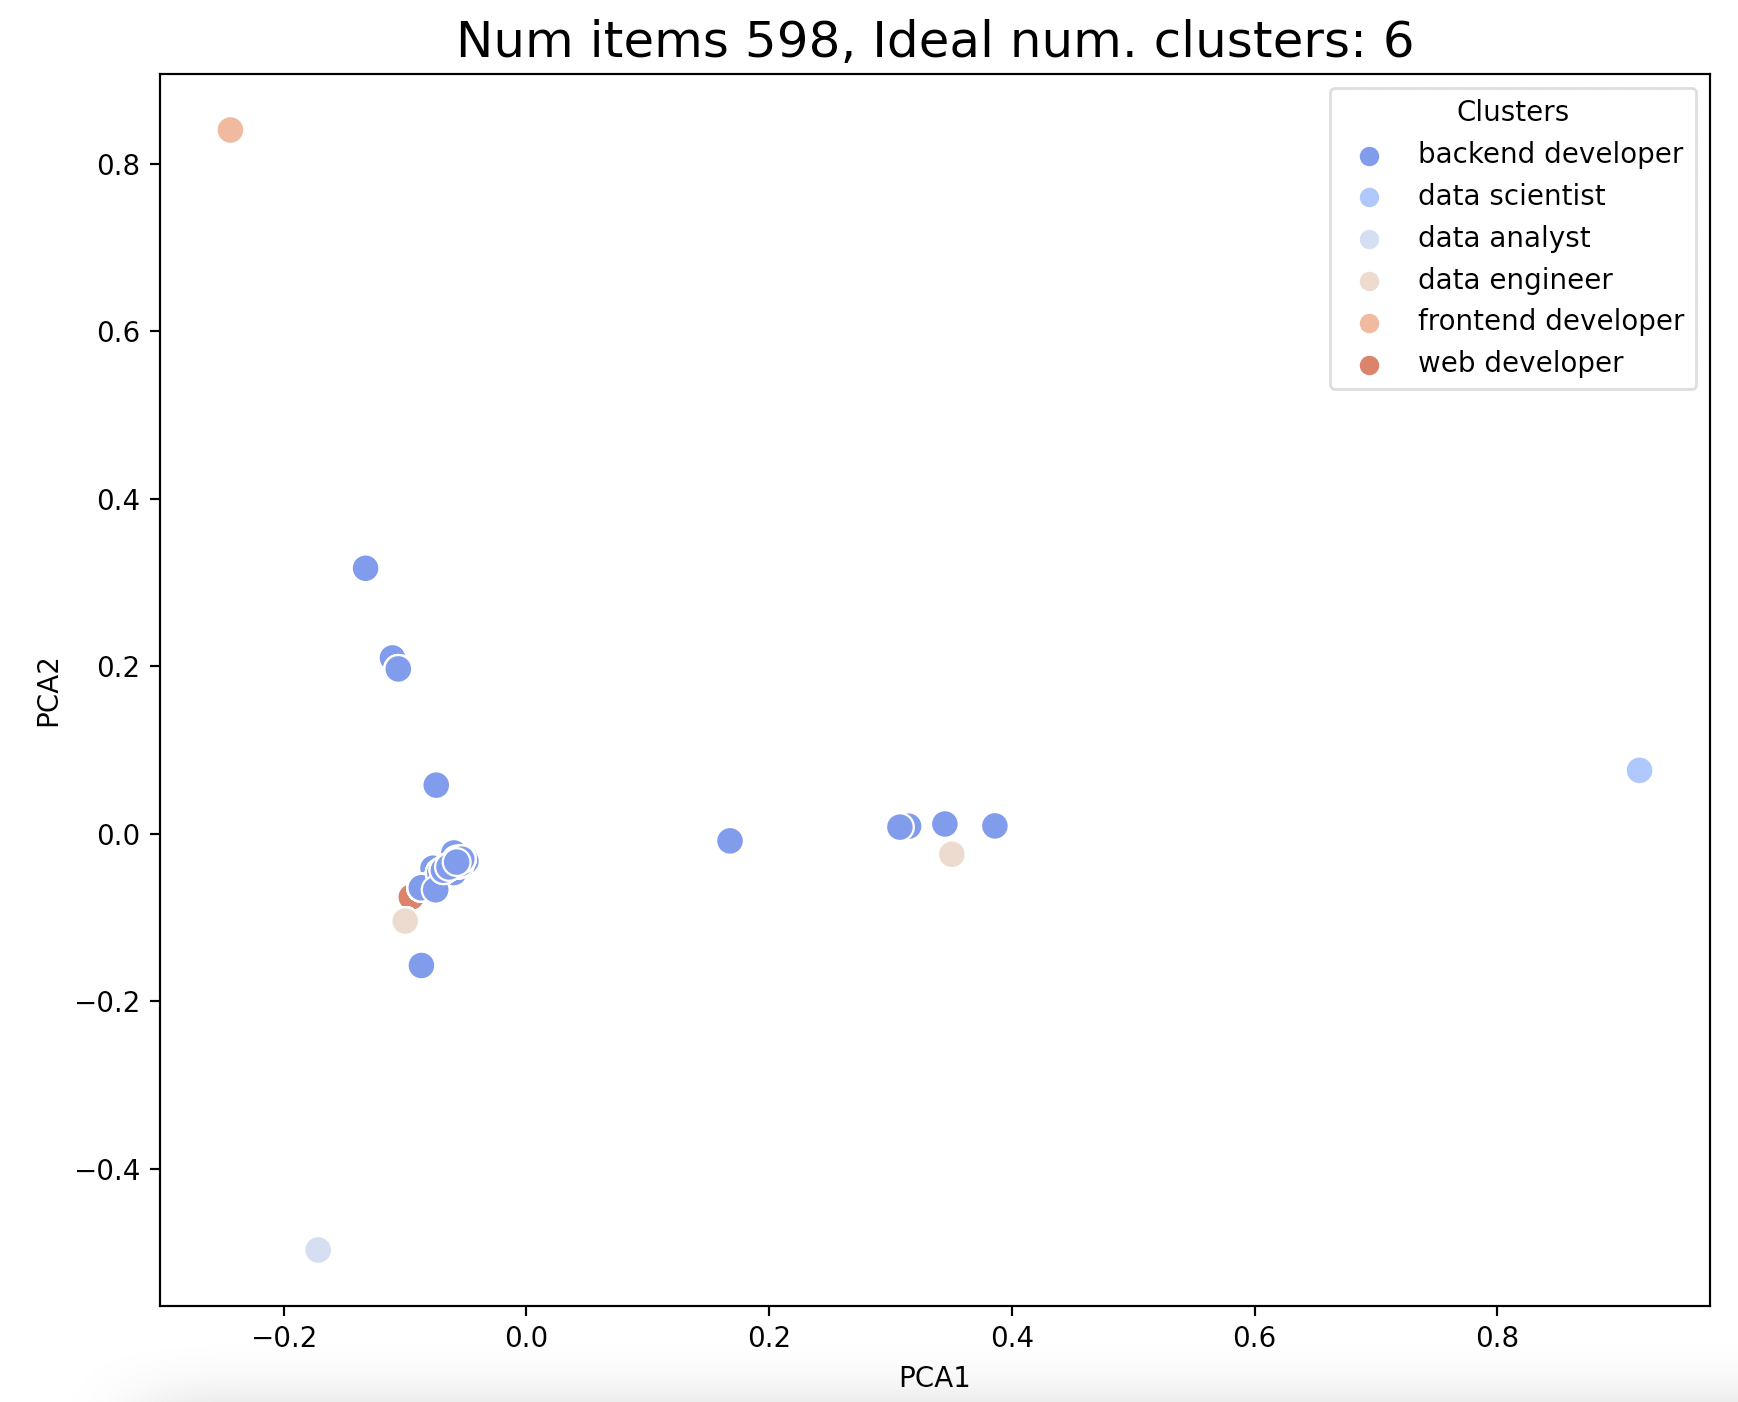
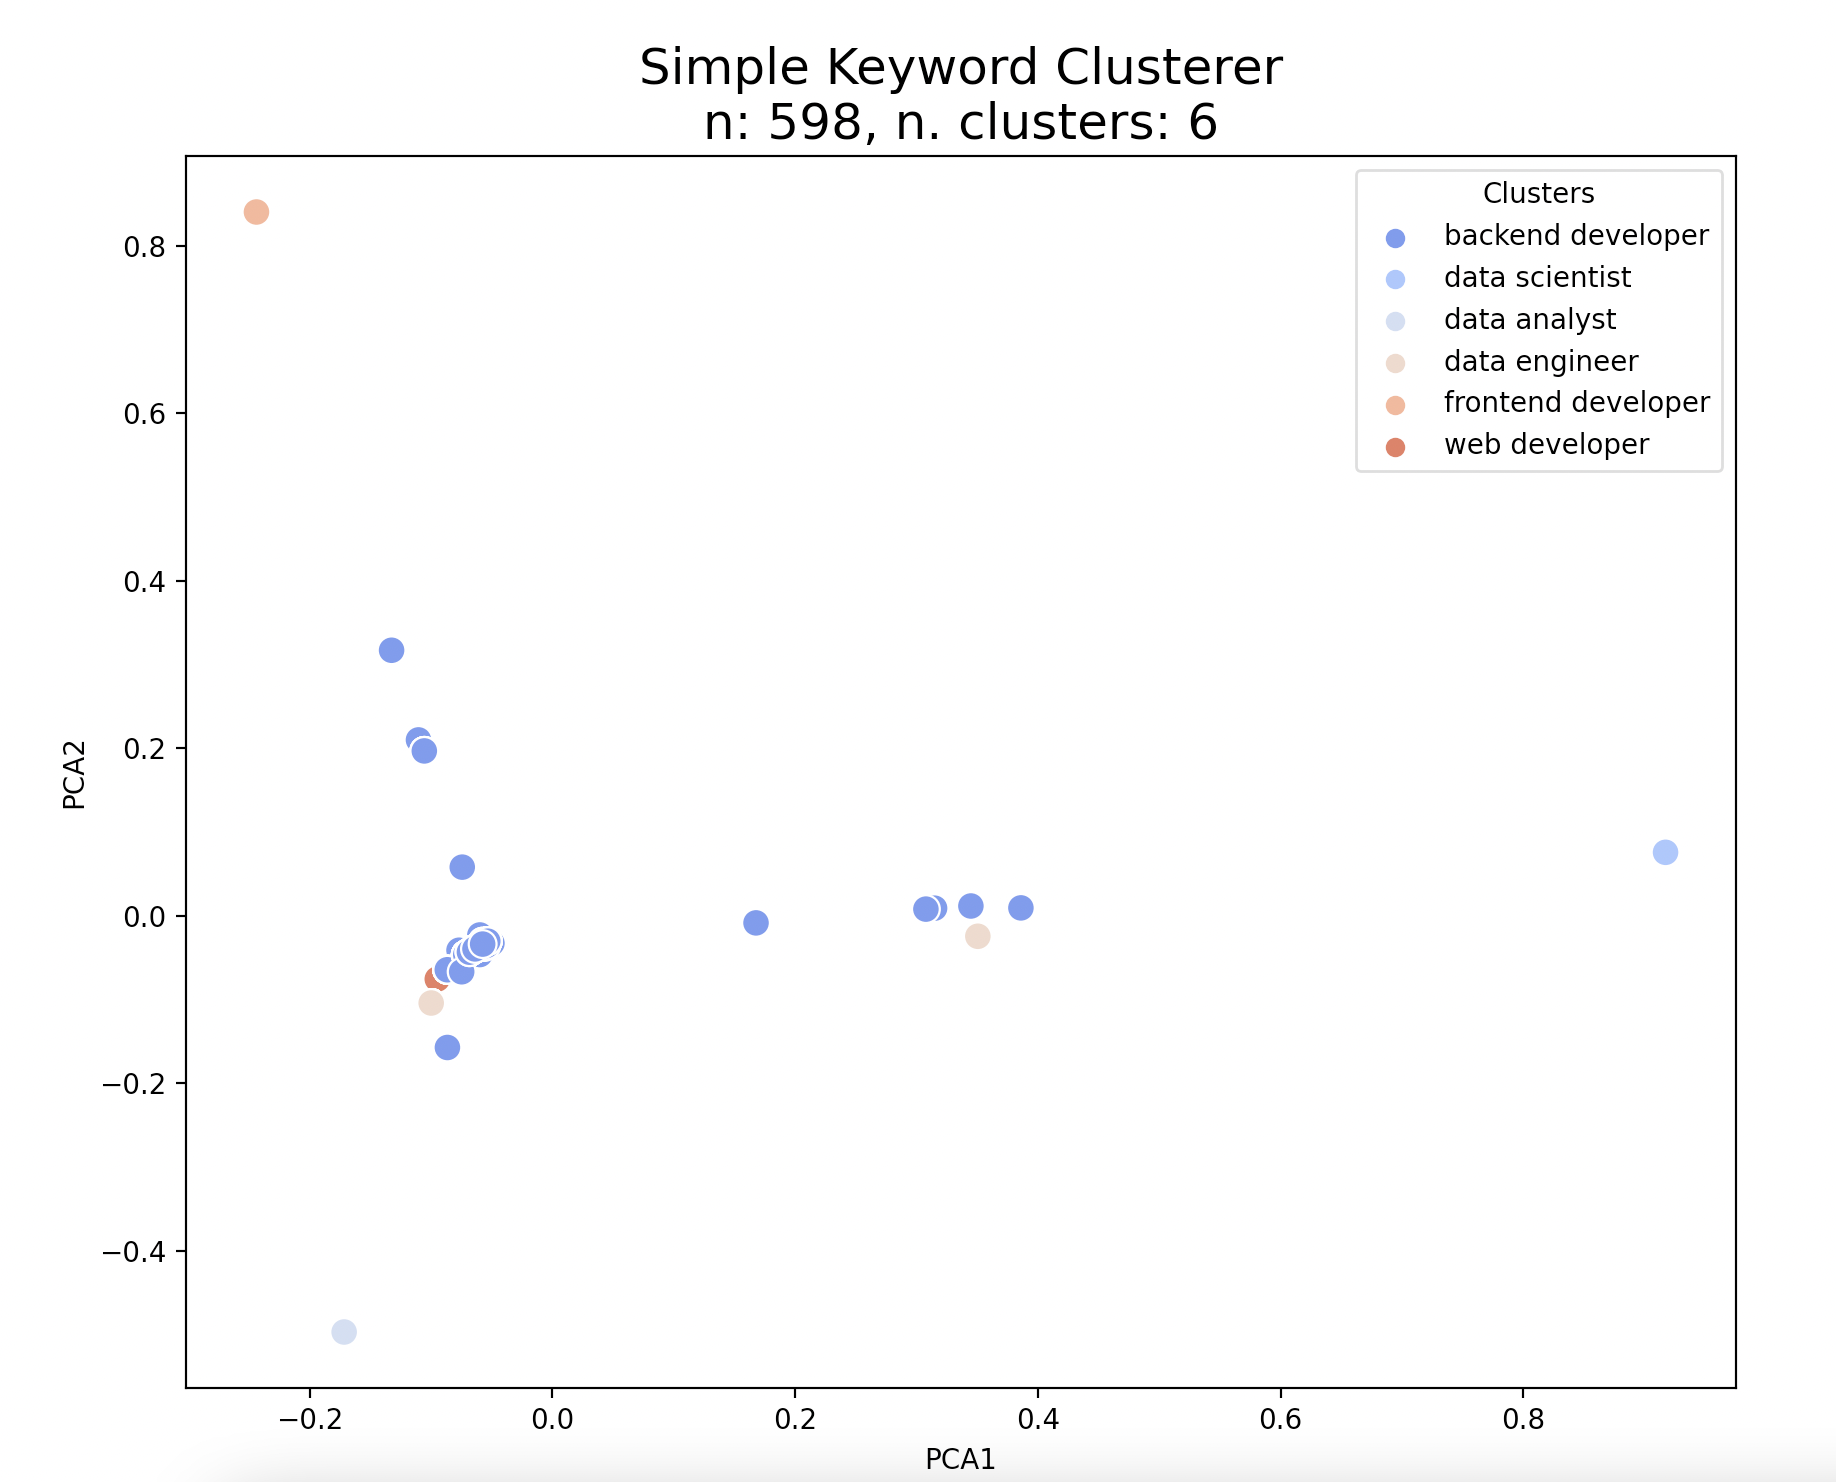
update chart

diff --git a/src/clustering.py b/src/clustering.py
@@ -78,7 +78,7 @@ def make_clusters(raw_data, n_clusters=None):
     sns.scatterplot(
         data=df, x="PCA1", y="PCA2", hue="cluster", palette="coolwarm", s=100
     )
-    plt.title(f"Num items {len(raw_data)}, Ideal num. clusters: {n_clusters}", fontsize=18)
+    plt.title(f"Simple Keyword Clusterer\nn: {len(raw_data)}, n. clusters: {n_clusters}", fontsize=18)
     plt.legend(fontsize=10, title="Clusters")
     plt.show()
 
